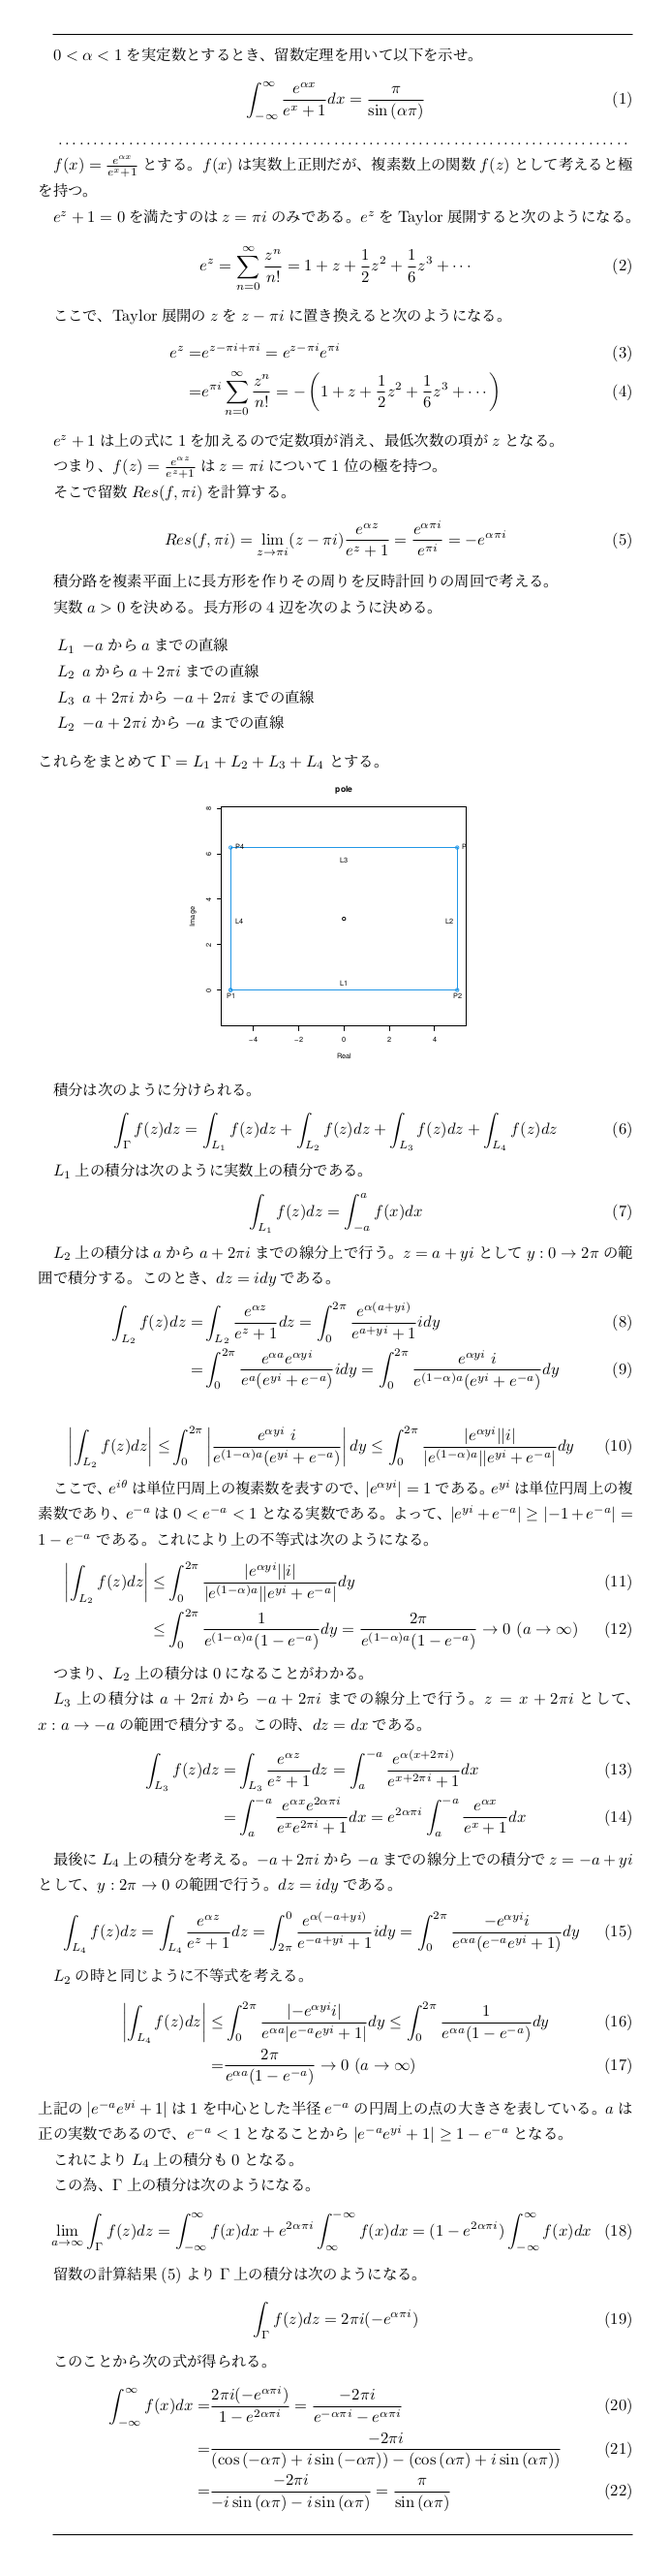
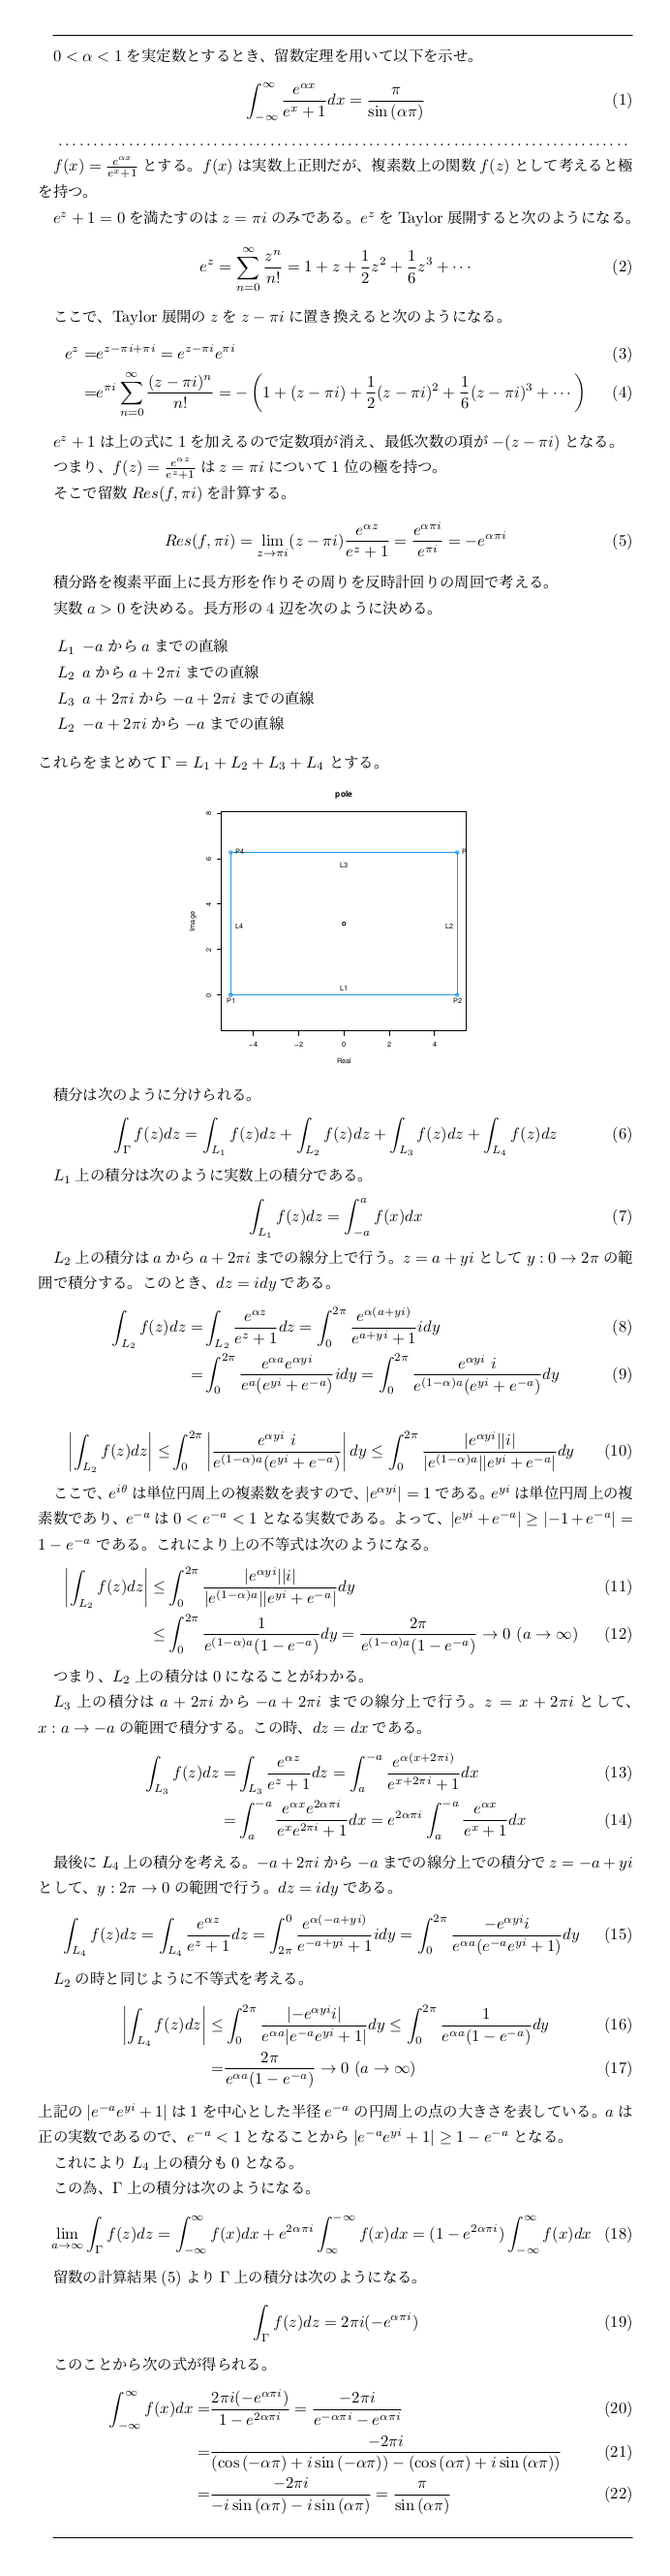
解析 複素関数 留数定理 広義積分

diff --git a/math/2023-01-30T10:07:22analy_impr_int_res/analy_impr_int_res.tex b/math/2023-01-30T10:07:22analy_impr_int_res/analy_impr_int_res.tex
@@ -107,12 +107,12 @@ $e^{z}$をTaylor展開すると次のようになる。
 \begin{align}
  e^{z} =& e^{z-\pi i + \pi i}
   = e^{z-\pi i} e^{\pi i}\\
- =& e^{\pi i} \sum_{n=0}^{\infty}\frac{z^n}{n!}
- = -\left( 1 + z + \frac{1}{2}z^{2} + \frac{1}{6}z^{3} + \cdots \right)
+ =& e^{\pi i} \sum_{n=0}^{\infty}\frac{(z-\pi i)^n}{n!}
+ = -\left( 1 + (z-\pi i) + \frac{1}{2}(z-\pi i)^{2} + \frac{1}{6}(z-\pi i)^{3} + \cdots \right)
 \end{align}
 
 $e^z+1$は上の式に1を加えるので定数項が消え、
-最低次数の項が$z$となる。
+最低次数の項が$-(z-\pi i)$となる。
 
 つまり、
 $f(z)=\frac{e^{\alpha z}}{e^{z}+1}$は
